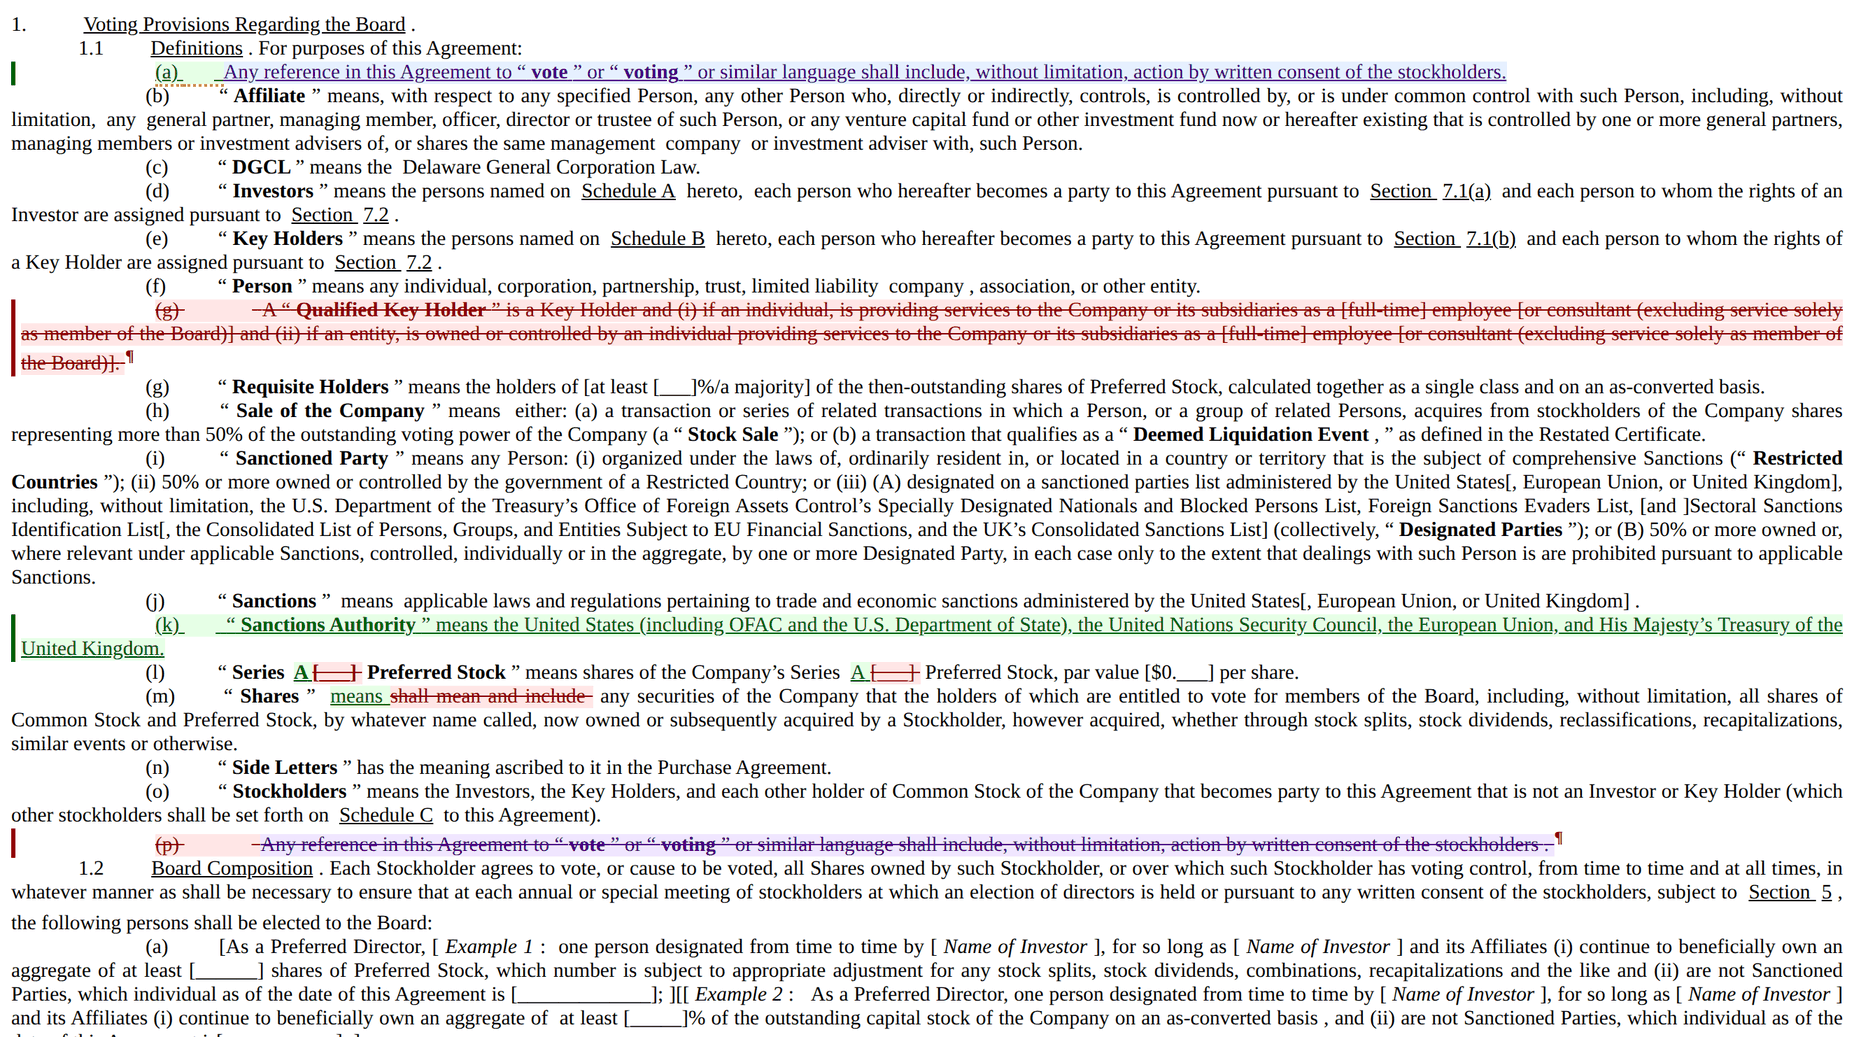
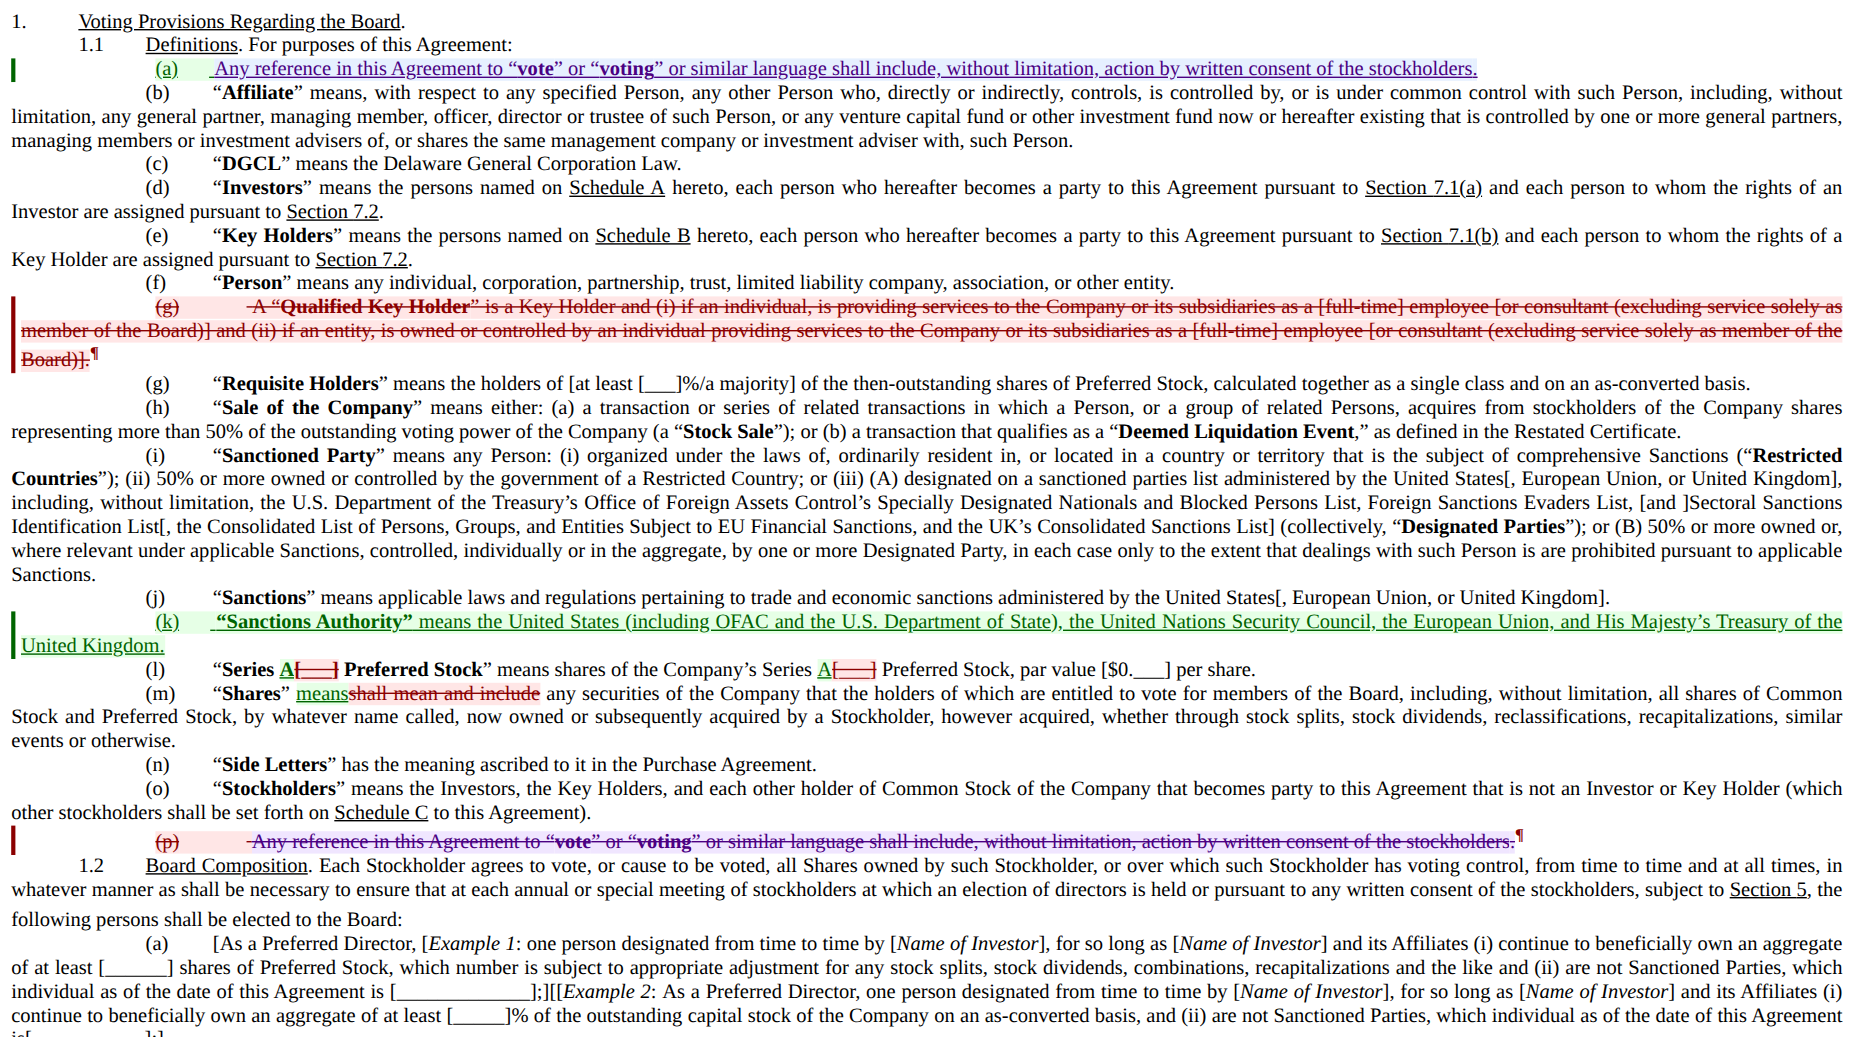
Regenerate verified NVCA redline screenshot

diff --git a/tools/screenshots/redline/Program.cs b/tools/screenshots/redline/Program.cs
@@ -1,0 +1,204 @@
+// Copyright (c) Microsoft. All rights reserved.
+// Licensed under the MIT license. See LICENSE file in the project root for full license information.
+
+using System.Text;
+using System.Text.RegularExpressions;
+using System.Xml.Linq;
+using DocumentFormat.OpenXml;
+using DocumentFormat.OpenXml.Packaging;
+using DocumentFormat.OpenXml.Wordprocessing;
+using Docxodus;
+
+namespace RedlineScreenshot;
+
+internal static class Program
+{
+    private const string QualifiedKeyHolder = "A “Qualified Key Holder” is a Key Holder";
+    private const string Interpretation = "Any reference in this Agreement to “vote” or “voting”";
+    private const string Affiliate = "“Affiliate” means, with respect to any specified Person";
+    private const string Sanctions = "“Sanctions” means applicable laws and regulations";
+    private const string Series = "“Series [___] Preferred Stock” means";
+    private const string Shares = "“Shares” shall mean and include";
+
+    private static readonly string[] ExpectedDefinitionMarkers =
+    {
+        "(a)", "(b)", "(c)", "(d)", "(e)", "(f)", "(g)", "(g)", "(h)",
+        "(i)", "(j)", "(k)", "(l)", "(m)", "(n)", "(o)", "(p)",
+    };
+
+    private static int Main(string[] args)
+    {
+        if (args.Length != 2)
+        {
+            Console.Error.WriteLine(
+                "usage: redline-screenshot <NVCA-Model-VA-10-1-2025.docx> <output-directory>");
+            return 1;
+        }
+
+        var sourcePath = Path.GetFullPath(args[0]);
+        var outputDirectory = Path.GetFullPath(args[1]);
+        Directory.CreateDirectory(outputDirectory);
+
+        var sourceBytes = File.ReadAllBytes(sourcePath);
+        var structurallyEdited = ApplyStructuralEdits(sourceBytes);
+        var modifiedBytes = ApplyTextEdits(structurallyEdited);
+
+        var modifiedPath = Path.Combine(outputDirectory, "modified.docx");
+        File.WriteAllBytes(modifiedPath, modifiedBytes);
+
+        var redline = DocxDiff.Compare(
+            new WmlDocument(sourcePath, sourceBytes),
+            new WmlDocument(modifiedPath, modifiedBytes),
+            new DocxDiffSettings { AuthorForRevisions = "Company Counsel" });
+
+        var redlinePath = Path.Combine(outputDirectory, "redline.docx");
+        File.WriteAllBytes(redlinePath, redline.DocumentByteArray);
+
+        var html = RenderRedline(redline.DocumentByteArray);
+        AssertDefinitionNumbering(html);
+
+        var htmlPath = Path.Combine(outputDirectory, "redline.html");
+        File.WriteAllText(
+            htmlPath,
+            html.ToString(SaveOptions.DisableFormatting),
+            new UTF8Encoding(encoderShouldEmitUTF8Identifier: false));
+
+        Console.WriteLine($"modified: {modifiedPath}");
+        Console.WriteLine($"redline:  {redlinePath}");
+        Console.WriteLine($"html:     {htmlPath}");
+        Console.WriteLine($"markers:  {string.Join(", ", ExpectedDefinitionMarkers)}");
+        return 0;
+    }
+
+    private static byte[] ApplyStructuralEdits(byte[] sourceBytes)
+    {
+        using var stream = ExpandableStream(sourceBytes);
+        using (var document = WordprocessingDocument.Open(stream, true))
+        {
+            var mainPart = document.MainDocumentPart
+                ?? throw new InvalidOperationException("The voting agreement has no main document part.");
+            var mainDocument = mainPart.Document
+                ?? throw new InvalidOperationException("The voting agreement has no main document.");
+            var body = mainDocument.Body
+                ?? throw new InvalidOperationException("The voting agreement has no document body.");
+
+            var qualifiedKeyHolder = FindParagraph(body, QualifiedKeyHolder);
+            var interpretation = FindParagraph(body, Interpretation);
+            var affiliate = FindParagraph(body, Affiliate);
+            var sanctions = FindParagraph(body, Sanctions);
+
+            // The accepted edit round shown in the README: move the interpretation definition
+            // to the start, delete Qualified Key Holder, and insert Sanctions Authority. Moving
+            // the existing paragraph (rather than cloning it) gives DocxDiff a true relocation.
+            interpretation.Remove();
+            affiliate.InsertBeforeSelf(interpretation);
+            qualifiedKeyHolder.Remove();
+            sanctions.InsertAfterSelf(BuildSanctionsAuthorityParagraph(sanctions));
+
+            mainDocument.Save();
+        }
+
+        return stream.ToArray();
+    }
+
+    private static byte[] ApplyTextEdits(byte[] structurallyEdited)
+    {
+        using var session = new DocxSession(structurallyEdited, new DocxSessionSettings
+        {
+            CaptureInitialProjection = false,
+            EmitMarkdownPatch = false,
+        });
+
+        var series = session.FindByText(Series)
+            ?? throw new InvalidOperationException("Could not find the Series definition.");
+        var seriesResults = session.ReplaceTextRange(series.Anchor.Id, "[___]", "A");
+        if (seriesResults.Count != 2 || seriesResults.Any(result => !result.Success))
+            throw new InvalidOperationException("Expected to fill both Series placeholders.");
+
+        var shares = session.FindByText(Shares)
+            ?? throw new InvalidOperationException("Could not find the Shares definition.");
+        var sharesResults = session.ReplaceTextRange(
+            shares.Anchor.Id,
+            "shall mean and include",
+            "means");
+        if (sharesResults.Count != 1 || !sharesResults[0].Success)
+            throw new InvalidOperationException("Expected to tighten the Shares definition once.");
+
+        return session.Save();
+    }
+
+    private static Paragraph BuildSanctionsAuthorityParagraph(Paragraph sanctions)
+    {
+        var paragraph = new Paragraph();
+        if (sanctions.ParagraphProperties is not null)
+        {
+            paragraph.Append(
+                (ParagraphProperties)sanctions.ParagraphProperties.CloneNode(deep: true));
+        }
+
+        paragraph.Append(
+            new Run(
+                new RunProperties(new Bold()),
+                new Text("“Sanctions Authority”")),
+            new Run(
+                new Text(
+                    " means the United States (including OFAC and the U.S. Department of State), " +
+                    "the United Nations Security Council, the European Union, and His Majesty’s " +
+                    "Treasury of the United Kingdom.")));
+        return paragraph;
+    }
+
+    private static XElement RenderRedline(byte[] redlineBytes)
+    {
+        using var stream = ExpandableStream(redlineBytes);
+        using var document = WordprocessingDocument.Open(stream, true);
+        return WmlToHtmlConverter.ConvertToHtml(document, new WmlToHtmlConverterSettings
+        {
+            PageTitle = "NVCA voting agreement — redline",
+            FabricateCssClasses = false,
+            RenderTrackedChanges = true,
+            RenderMoveOperations = true,
+            IncludeRevisionMetadata = true,
+            ShowDeletedContent = true,
+        });
+    }
+
+    private static void AssertDefinitionNumbering(XElement html)
+    {
+        var xhtml = (XNamespace)"http://www.w3.org/1999/xhtml";
+        var markerPattern = new Regex("^\\([a-p]\\)$", RegexOptions.CultureInvariant);
+        var actual = html
+            .Descendants(xhtml + "span")
+            .Where(element => (string?)element.Attribute("data-list-marker") == "true")
+            .Where(element => !element
+                .Descendants(xhtml + "span")
+                .Any(descendant => (string?)descendant.Attribute("data-list-marker") == "true"))
+            .Select(element => element.Value)
+            .Where(value => markerPattern.IsMatch(value))
+            .Take(ExpectedDefinitionMarkers.Length)
+            .ToArray();
+
+        if (!actual.SequenceEqual(ExpectedDefinitionMarkers))
+        {
+            throw new InvalidOperationException(
+                "Tracked-change list numbering regressed. " +
+                $"Expected [{string.Join(", ", ExpectedDefinitionMarkers)}], " +
+                $"got [{string.Join(", ", actual)}].");
+        }
+    }
+
+    private static Paragraph FindParagraph(Body body, string text)
+    {
+        return body
+            .Descendants<Paragraph>()
+            .Single(paragraph => paragraph.InnerText.Contains(text, StringComparison.Ordinal));
+    }
+
+    private static MemoryStream ExpandableStream(byte[] bytes)
+    {
+        var stream = new MemoryStream();
+        stream.Write(bytes, 0, bytes.Length);
+        stream.Position = 0;
+        return stream;
+    }
+}

diff --git a/tools/screenshots/redline/README.md b/tools/screenshots/redline/README.md
@@ -1,0 +1,33 @@
+# README redline screenshot
+
+This fixture regenerates `docs/images/redline.png` from the public
+[NVCA Model Voting Agreement (October 2025)](https://nvca.org/wp-content/uploads/2024/10/NVCA-Model-VA-10-1-2025.docx).
+It deterministically applies the edit round described in the README, compares the source and
+modified copies with `DocxDiff`, renders tracked changes to HTML, and asserts the definition-list
+markers before a browser is allowed to capture the image.
+
+From the repository root:
+
+```bash
+curl -L --fail --output /tmp/NVCA-Model-VA-10-1-2025.docx \
+  https://nvca.org/wp-content/uploads/2024/10/NVCA-Model-VA-10-1-2025.docx
+
+dotnet run --project tools/screenshots/redline/redline-screenshot.csproj -- \
+  /tmp/NVCA-Model-VA-10-1-2025.docx /tmp/docxodus-redline-screenshot
+
+# Requires npm install in npm/ and Chrome at /usr/bin/google-chrome.
+# Set CHROME_PATH when Chrome is installed elsewhere.
+node tools/screenshots/redline/capture.mjs \
+  /tmp/docxodus-redline-screenshot/redline.html docs/images/redline.png
+```
+
+The generator fails unless the rendered definition markers are exactly:
+
+```text
+(a), (b), (c), (d), (e), (f), (g), (g), (h), (i), (j), (k), (l), (m), (n), (o), (p)
+```
+
+The struck/live `(g)` duplicate proves that the deleted paragraph does not consume a final-document
+number. The inserted `(k)` and following `(l)`–`(o)` prove that inserted paragraphs do consume a
+number and cascade the remaining live items. The final struck `(p)` is the source of the clause moved
+to live `(a)`.

diff --git a/docs/repo-positioning.md b/docs/repo-positioning.md
@@ -134,11 +134,13 @@ The images in `docs/images/` are real converter and diff output, captured headle
 1. Fetch a real source document (the NVCA model charter and voting agreement are public).
 2. Render it with `WmlToHtmlConverter` — flow mode for `render.png`/`footnotes.png`, and with
    `StampAnchors` for the projection figure.
-3. For `redline.png`: apply a round of realistic edits through `DocxSession` (fill a blank, tighten
-   wording, insert a definition, move a clause, delete a clause), then `DocxDiff.Compare` the
-   original against the edited copy and render the result with `RenderTrackedChanges: true`.
-4. Screenshot the resulting HTML with Playwright at `deviceScaleFactor: 2`, then downscale to ~0.7
-   for file size.
+3. For `redline.png`, use the deterministic
+   [`tools/screenshots/redline`](../tools/screenshots/redline/README.md) fixture. It applies the
+   realistic edit round (fill a blank, tighten wording, insert a definition, move a clause, delete
+   a clause), runs `DocxDiff.Compare`, renders with `RenderTrackedChanges: true`, and refuses to
+   capture unless the expected cascaded marker sequence is present.
+4. The capture script uses the historical 1324×741 CSS viewport at `deviceScaleFactor: 1.4`,
+   producing the checked-in 1854×1037 PNG directly.
 
 The editor screenshots come from `npm/examples/editor.html` — see
 [`editor_ui_surface.md`](architecture/editor_ui_surface.md).

diff --git a/docs/architecture/ir_diff_engine.md b/docs/architecture/ir_diff_engine.md
@@ -10,9 +10,11 @@ The IR diff engine is a structure-aware DOCX comparison engine built on Docxodus
 
 ![A redlined venture financing agreement](../images/redline.png)
 
-The [NVCA model voting agreement](https://nvca.org/model-legal-documents/) against a copy edited
-through `DocxSession`, compared with `DocxDiff.Compare` and rendered by `WmlToHtmlConverter` with
-`RenderTrackedChanges: true`. Four families of change in one frame, all recovered structurally:
+The [NVCA model voting agreement](https://nvca.org/model-legal-documents/) against a reproducibly
+edited copy, compared with `DocxDiff.Compare` and rendered by `WmlToHtmlConverter` with
+`RenderTrackedChanges: true`. The [screenshot fixture](../../tools/screenshots/redline/README.md)
+uses `DocxSession` for surgical text edits and Open XML block edits for the move/delete/insert.
+Four families of change appear in one frame, all recovered structurally:
 
 | In the screenshot | Markup emitted |
 |---|---|
